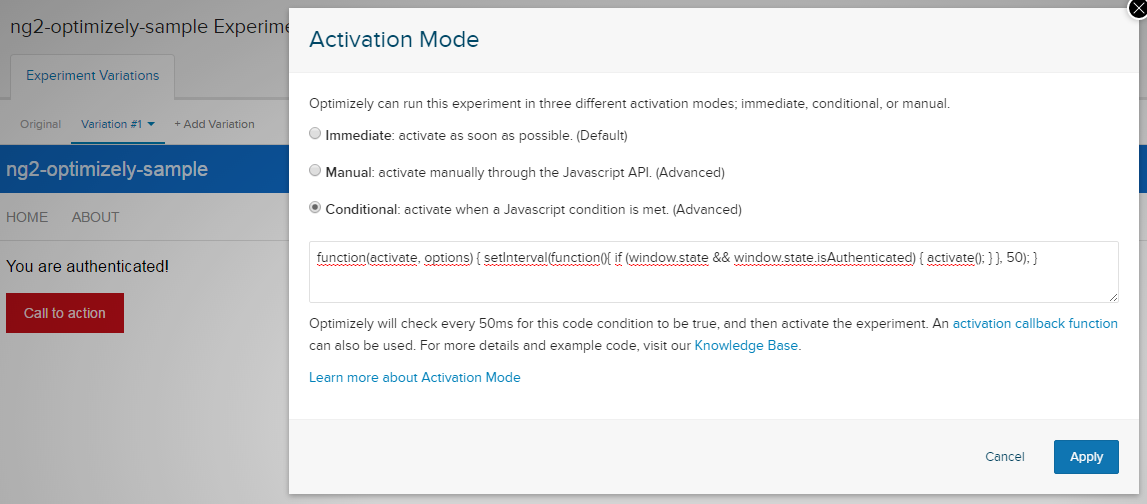
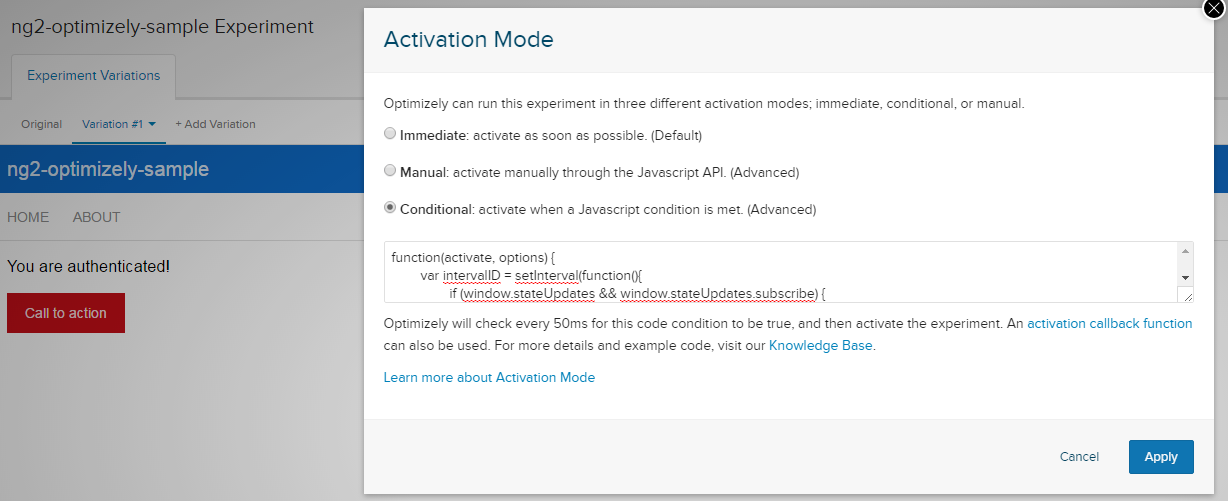
feat(pubsub): trigger state change on page change

diff --git a/src/client/app/app.component.ts b/src/client/app/app.component.ts
@@ -1,8 +1,17 @@
 import { Component } from '@angular/core';
-import { ROUTER_DIRECTIVES } from '@angular/router';
+import { ROUTER_DIRECTIVES, Router, NavigationEnd, Event } from '@angular/router';
 import { HTTP_PROVIDERS } from '@angular/http';
+import { Store } from "@ngrx/store";
 
 import { Config, NavbarComponent, ToolbarComponent } from './shared/index';
+import { AppState } from "./shared/app.model";
+import {
+	EXPOSE_PROVIDERS,
+	ExposeAction,
+	ExposingWindow
+} from "./shared/expose/index";
+
+declare var window: ExposingWindow;
 
 /**
  * This class represents the main application component. Within the @Routes annotation is the configuration of the
@@ -11,12 +20,23 @@ import { Config, NavbarComponent, ToolbarComponent } from './shared/index';
 @Component({
 	moduleId: module.id,
 	selector: 'sd-app',
-	viewProviders: [HTTP_PROVIDERS],
+	viewProviders: [EXPOSE_PROVIDERS, HTTP_PROVIDERS],
 	templateUrl: 'app.component.html',
 	directives: [ROUTER_DIRECTIVES, NavbarComponent, ToolbarComponent]
 })
 export class AppComponent {
-	constructor() {
+
+	constructor(
+		router: Router,
+		store: Store<AppState>,
+		exposeAction: ExposeAction
+	) {
 		console.log('Environment config', Config);
+
+		router.events.subscribe((e: Event) => {
+			if (e instanceof NavigationEnd) {
+				store.dispatch(exposeAction.expose());
+			}
+		});
 	}
 }

diff --git a/src/client/app/shared/expose/expose.action.ts b/src/client/app/shared/expose/expose.action.ts
@@ -1,0 +1,17 @@
+import { Injectable } from "@angular/core";
+import { Action } from "@ngrx/store";
+
+const ACTION_PREFIX = "[Expose]";
+export const exposeActionType = {
+	EXPOSE: `${ACTION_PREFIX} Expose`
+};
+
+@Injectable()
+export class ExposeAction {
+
+	expose(): Action {
+		return {
+			type: exposeActionType.EXPOSE
+		};
+	}
+}

diff --git a/src/client/app/shared/expose/index.ts b/src/client/app/shared/expose/index.ts
@@ -1,2 +1,9 @@
+import { ExposeAction } from "./expose.action";
+
+export * from "./expose.action";
 export * from "./expose.effect";
 export * from "./expose.model";
+
+export const EXPOSE_PROVIDERS: any[] = [
+	ExposeAction
+];

diff --git a/src/client/app/shared/index.ts b/src/client/app/shared/index.ts
@@ -3,5 +3,6 @@
  */
 export * from "./auth/index";
 export * from './config/env.config';
+export * from "./expose/index";
 export * from './navbar/index';
 export * from './toolbar/index';

diff --git a/optimizely-activation-example.js b/optimizely-activation-example.js
@@ -1,3 +1,5 @@
+// Optimizely activation script
+
 function(activate, options) {
 	var intervalID = setInterval(function(){
 		if (window.stateUpdates && window.stateUpdates.subscribe) {

diff --git a/README.md b/README.md
@@ -44,15 +44,21 @@ _Does not rely on any global dependencies._
 
 # Optimizely Experiment Example
 
-Create an experiment with activation mode "conditional" and use the exposed state on the window variable to write your conditions.
+This works by publishing part of the state (ExposedState): 
+In Optimizely you write a script for subscribing to these state changes and activating experiments accordingly.
 
-For example:
+For example, use conditional activation mode and add this script:
 
 ```js
-function (activate, options) {
-	setInterval(function () {
-		if (window.state && window.state.isAuthenticated) {
-			activate();
+function(activate, options) {
+	var intervalID = setInterval(function(){
+		if (window.stateUpdates && window.stateUpdates.subscribe) {
+			clearInterval(intervalID);
+			window.stateUpdates.subscribe(function(state) {
+				if (state.isAuthenticated) {
+					activate();
+				}
+			});
 		}
 	}, 50);
 }
